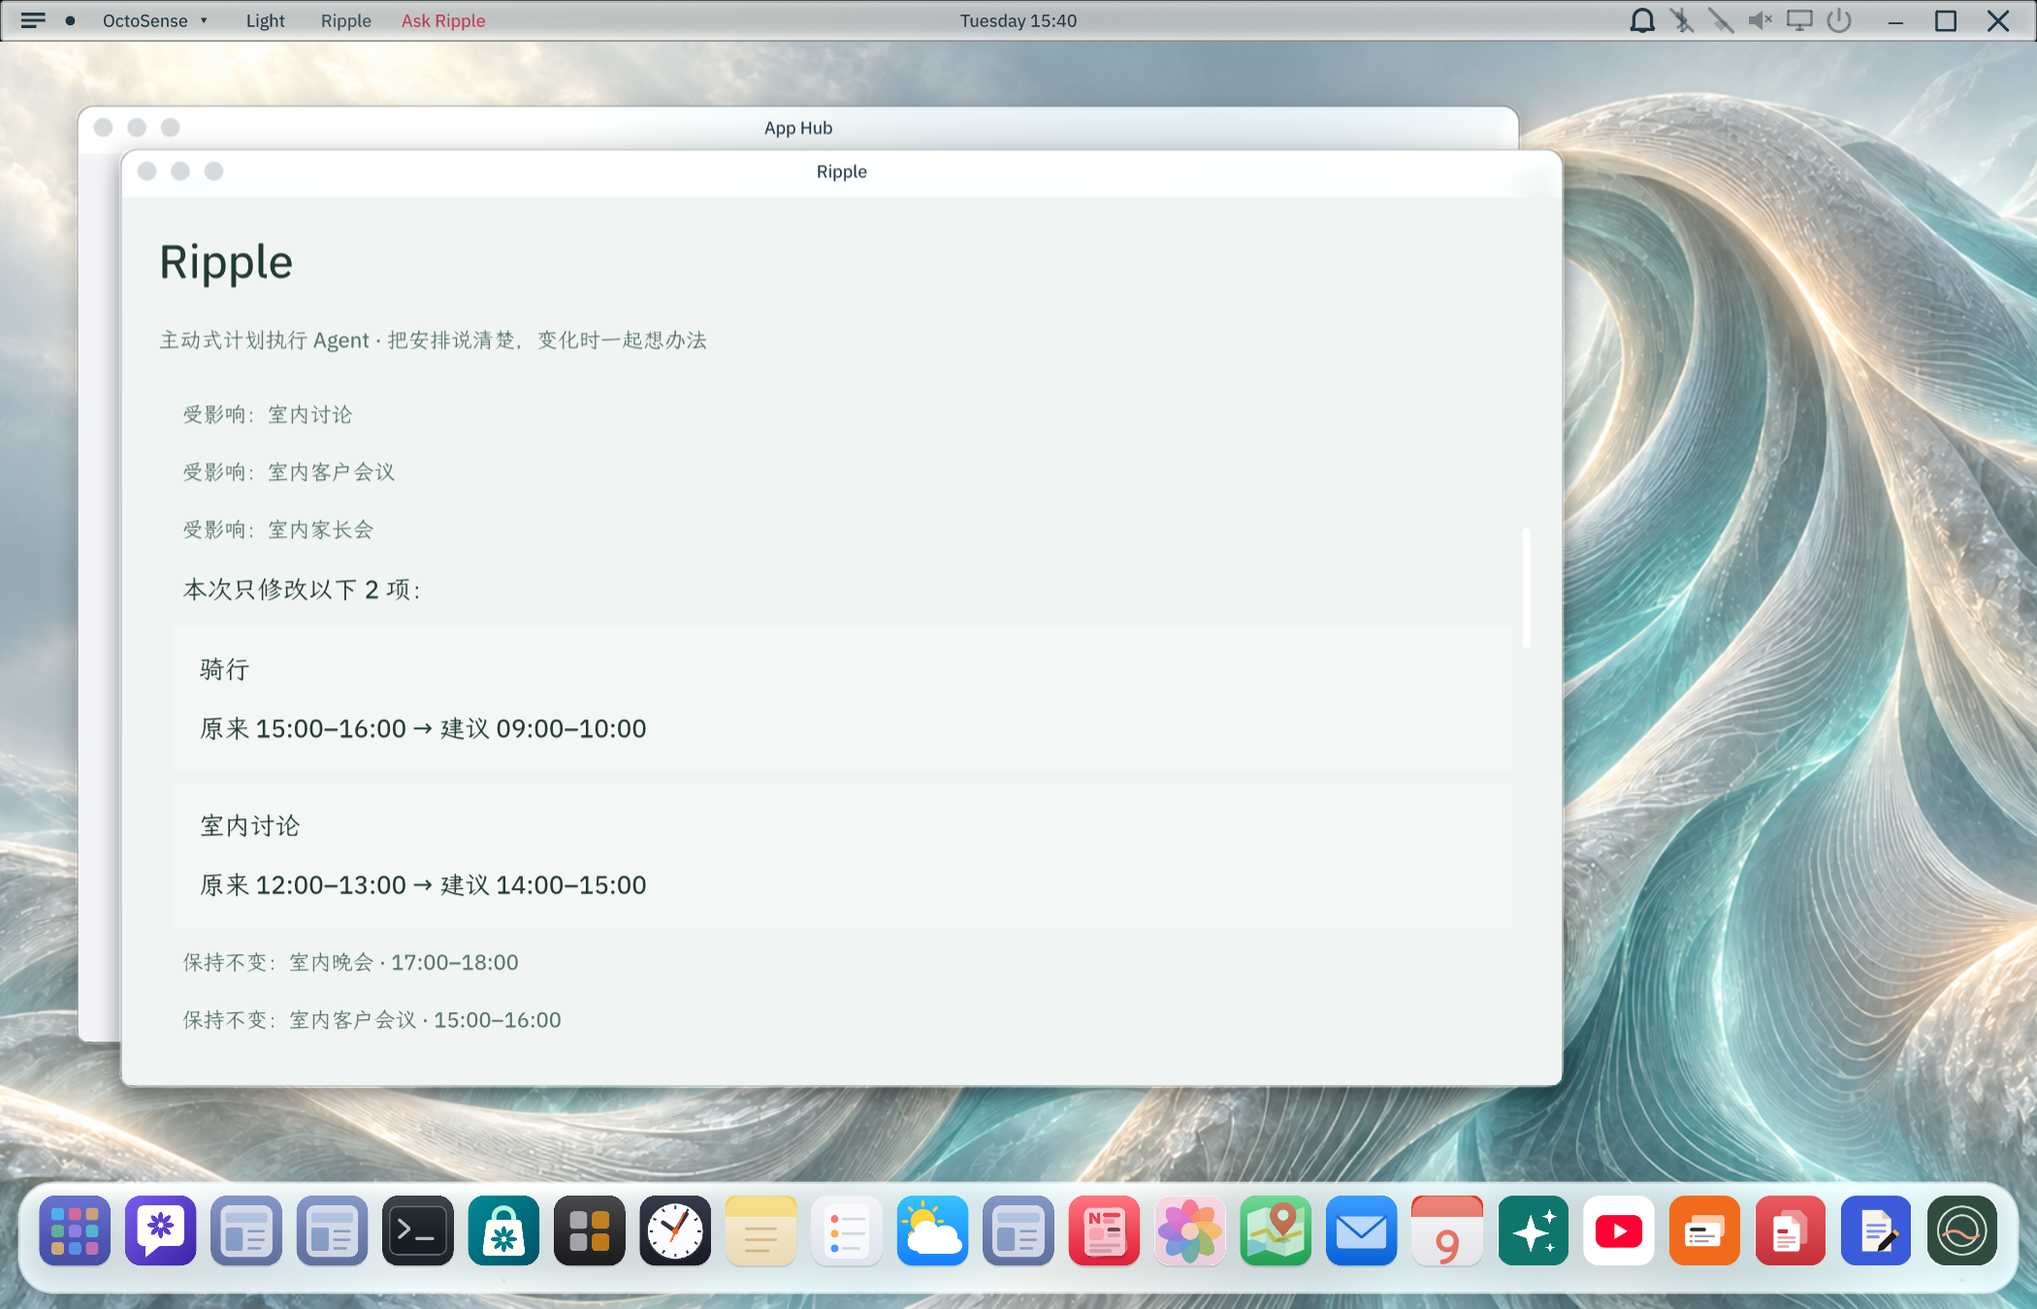
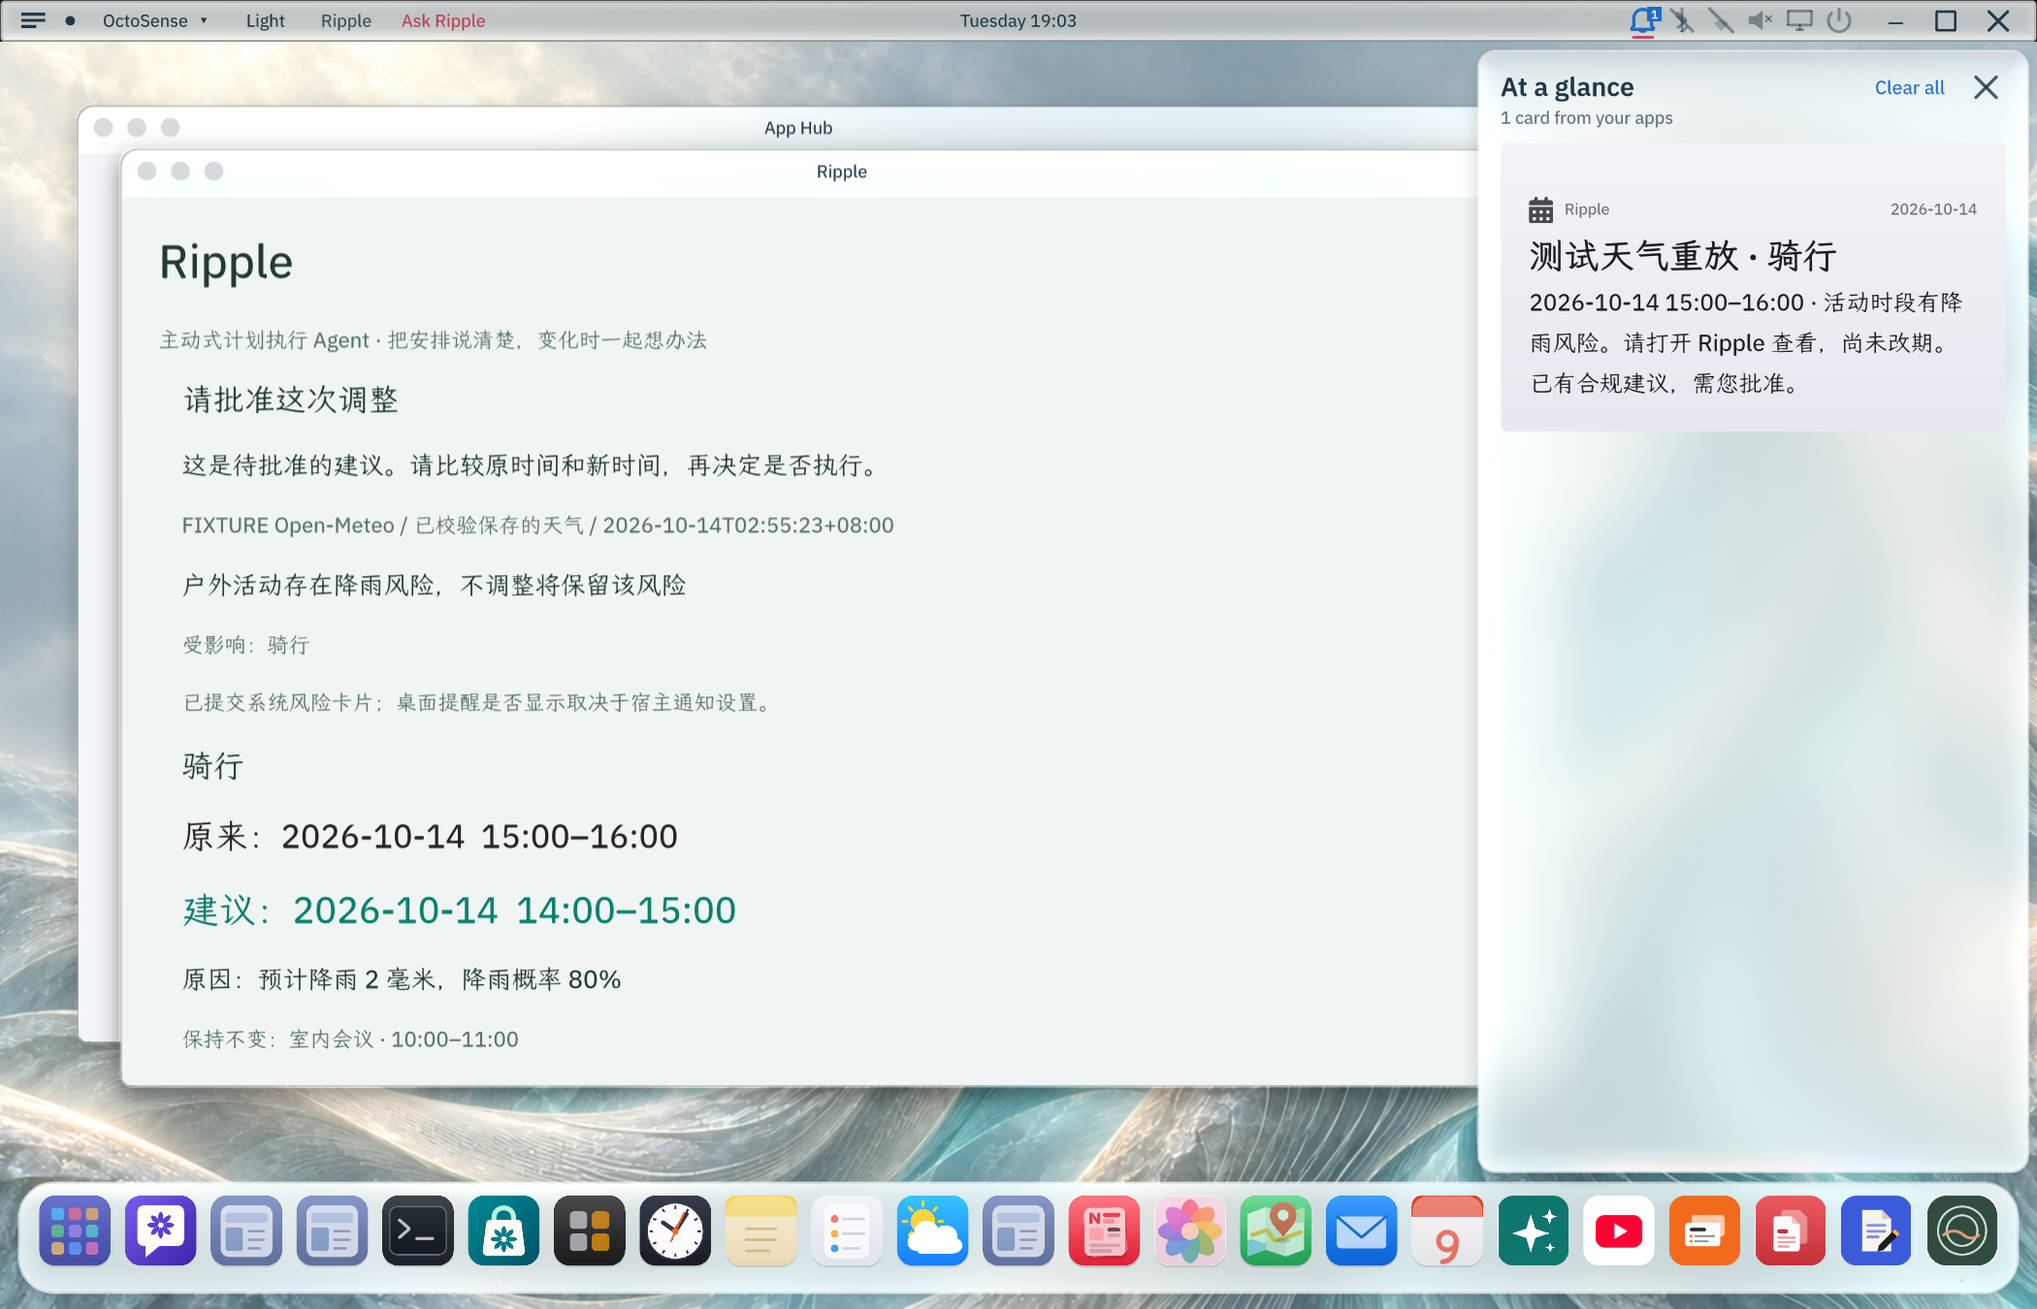
fix: harden real agent responses and weather-bound risk reminders

Changed region(s): [[0.7119, 0.0, 1.0, 0.9022], [0.0929, 0.28, 0.4333, 0.5911], [0.0929, 0.6222, 0.3714, 0.8089]]

diff --git a/phase1/business-harness/src/stage4_tests.rs b/phase1/business-harness/src/stage4_tests.rs
@@ -6,7 +6,7 @@ fn stage4_change_response_and_existing_execution() {
     source.push_str(r#"
       fn s4_check(){ finish_change_check("sdk_replay",input_generation,schedule_fingerprint()) }
       fn s4_facts(){ let e=read_event() let w=read_weather_snapshot(e,time_now()) weather=w.hours fs.write("facts.json",change_facts(e).to_json()) }
-      fn s4_card(){ fs.write("glance-payload.json",{payload:glance_payload()}.to_json()) }
+      fn s4_card(){ fs.write("glance-payload.json",{payload:glance_payload() weather_message:weather_message detail:weather_detail(plan_entries(read_event())[0])}.to_json()) }
       fn s4_report(){ fs.write("state.json",{status:status busy:busy verified:verified change:change_context message:message mode:planning_mode change_message:change_message}.to_json()) }
       fn s4_outage(){ change_agent_failed(task_generation,"EXPLICIT_SDK_PROVIDER_OUTAGE") }
       fn s4_rule_begin(){ preview_candidates() }
@@ -28,12 +28,22 @@ fn stage4_change_response_and_existing_execution() {
     let baseline=read(jail.join("change-response.json"));
     weather["fetched_at"]=json!(now-1);weather["revision"]=json!("timestamp-only");weather["hours"][9]["rain"]=json!(0.2);save("weather.json",&weather);
     invoke(&mut cx,&card,id!(s4_check),&[]);assert_eq!(read(jail.join("change-response.json")),baseline,"semantic weather jitter must remain quiet");
+    let mut related_only=primary.clone();related_only["revision"]=json!(2);related_only["planning"]["plans"]=json!([{"id":"walk","title":"关联散步","start":day+15*3600,"end":day+16*3600,"active":true,"movable":false,"outdoor":true,"priority":3,"availability":null}]);
+    weather["hours"][15]["rain"]=json!(2);save("weather.json",&weather);save("schedule.txt",&related_only);invoke(&mut cx,&card,id!(s4_check),&[]);invoke(&mut cx,&card,id!(s4_card),&[]);let related_card=read(jail.join("glance-payload.json"));assert!(related_card["payload"]["title"].as_str().unwrap().contains("关联散步"));assert!(related_card["payload"]["summary"].as_str().unwrap().contains("15:00"));assert!(related_card["payload"]["summary"].as_str().unwrap().contains("降雨"));assert_eq!(read(jail.join("schedule.txt")),related_only);
+    weather["hours"][15]["rain"]=json!(0);save("weather.json",&weather);save("schedule.txt",&primary);invoke(&mut cx,&card,id!(s4_check),&[]);
     let mut added=primary.clone();added["revision"]=json!(2);added["planning"]["plans"]=json!([
         {"id":"new-meeting","title":"十点固定会议","start":day+10*3600,"end":day+11*3600,"active":true,"movable":false,"outdoor":false,"priority":5,"availability":null},
         {"id":"unrelated","title":"下午会议","start":day+15*3600,"end":day+16*3600,"active":true,"movable":false,"outdoor":false,"priority":3,"availability":null}]);
     save("schedule.txt",&added);invoke(&mut cx,&card,id!(s4_check),&[]);let detected=report(&mut cx);assert_eq!(detected["status"],"RISK");assert_eq!(detected["change"]["affected"].as_array().unwrap().len(),2);assert_eq!(read(jail.join("schedule.txt")),added);
     invoke(&mut cx,&card,id!(s4_card),&[]);let risk_card=read(jail.join("glance-payload.json"));
     assert!(risk_card["payload"].is_object());assert!(risk_card["payload"]["title"].as_str().unwrap().contains("测试天气重放"));assert!(!risk_card["payload"]["summary"].as_str().unwrap().contains("骑行"),"public summary must not expose activity titles");
+    assert!(risk_card["payload"]["expires"].as_f64().unwrap()<=600.0);
+    let mut near_expiry=weather.clone();near_expiry["fetched_at"]=json!(now-550);save("weather.json",&near_expiry);
+    invoke(&mut cx,&card,id!(s4_card),&[]);assert!(read(jail.join("glance-payload.json"))["payload"].is_null(),"minimum Glance TTL must not extend stale forecast claims");
+    near_expiry["fetched_at"]=json!(now-601);save("weather.json",&near_expiry);
+    invoke(&mut cx,&card,id!(expire_visible_risk),&[]);assert_eq!(report(&mut cx)["status"],"STALE");assert_eq!(read(jail.join("schedule.txt")),added,"expiry never authorizes a write");
+    invoke(&mut cx,&card,id!(s4_card),&[]);let expired_card=read(jail.join("glance-payload.json"));assert!(expired_card["weather_message"].as_str().unwrap().contains("过期"));assert!(expired_card["detail"].as_str().unwrap().contains("未知"),"expired UI must not retain the cached rain label");
+    save("weather.json",&weather);invoke(&mut cx,&card,id!(s4_check),&[]);
     let call=|name:&str,args:Value,cx:&mut Cx|->Value{
         let replies:Replies=Default::default();let out=replies.clone();
         script_tools::submit("ripple",name,args,"device","stage4-fixture",Duration::from_secs(60),Box::new(move|r|out.lock().unwrap().push(r))).unwrap();pump(cx,&card);

diff --git a/phase1/business-harness/src/lib.rs b/phase1/business-harness/src/lib.rs
@@ -8,6 +8,11 @@ mod tests {
     use std::{path::{Path, PathBuf}, sync::{Arc, Mutex}, time::Duration};
 
     type Replies = Arc<Mutex<Vec<Result<Value, String>>>>;
+    thread_local! {
+        // The official registry is thread-local and append-only. A test creates
+        // many Cx instances on one thread; register its host vocabulary once.
+        static HOST_TOOLS_READY: std::cell::Cell<bool> = const { std::cell::Cell::new(false) };
+    }
     fn root() -> PathBuf { PathBuf::from(std::env::var("RIPPLE_TEST_ROOT").unwrap()) }
     fn evidence() -> PathBuf { PathBuf::from(std::env::var("RIPPLE_TEST_EVIDENCE").unwrap()) }
     fn write(name: &str, v: &Value) {
@@ -18,7 +23,9 @@ mod tests {
     fn read(p: impl AsRef<Path>) -> Value { serde_json::from_slice(&std::fs::read(p.as_ref()).unwrap_or_else(|e|panic!("read {}: {e}",p.as_ref().display()))).unwrap() }
     fn fixture(label: &str, source: &str, reference: &Path) -> (Cx, WidgetRef, SplashRef, script_tools::Registration, PathBuf) {
         // Public isolate registration, identical app_tools implementation; no gate edits.
-        makepad_widgets::widget_async::register_splash_isolate_mod(script_tools::script_mod);
+        HOST_TOOLS_READY.with(|ready| {
+            if !ready.replace(true) { makepad_widgets::widget_async::register_splash_isolate_mod(script_tools::script_mod); }
+        });
         let mut cx=Cx::new(Box::new(|_,_|{}));
         let ui=cx.with_vm(|vm| {
             makepad_widgets::script_mod(vm);
@@ -31,7 +38,9 @@ mod tests {
         card.set_host_tag(&mut cx,Some("ripple".into()));
         card.set_sandbox_dir(&mut cx,Some(jail.clone()));
         card.set_policy(&mut cx,Some(vec![]),Some(2_000_000));
+        let initialization_started=std::time::Instant::now();
         card.set_text(&mut cx,source);
+        if std::env::var_os("RIPPLE_TRACE_CALLS").is_some() { eprintln!("RIPPLE_INIT label={label} source_bytes={} elapsed_us={}",source.len(),initialization_started.elapsed().as_micros()); }
         widget_tree::set_ui_root(&mut cx,&ui);
         // Mount/draw the real widget tree, as official card_layout_tests do.
         // app_tool legitimately calls ui.call.set_text; keep that UI code intact.
@@ -487,7 +496,8 @@ mod tests {
         std::fs::write(jail.join("weather.json"),w.to_string()).unwrap();invoke(&mut cx,&card,id!(fixture_begin),&["no-candidate"]);
         let nc=call("ripple.context.read",json!({"task_id":"no-candidate"}),&mut cx).unwrap();let mut args=nc["search_bounds"].clone();args["task_id"]=json!("no-candidate");args["read_token"]=nc["read_token"].clone();
         let none=call("ripple.slots.search",args,&mut cx).unwrap();assert_eq!(none["candidates"],json!([]));
-        let ncchoice=json!({"task_id":"no-candidate","read_token":nc["read_token"],"decision":"NO_CANDIDATE","search_id":none["search_id"],"candidate_id":null});invoke(&mut cx,&card,id!(fixture_finish),&[&ncchoice.to_string()]);invoke(&mut cx,&card,id!(fixture_report),&[]);assert_eq!(read(jail.join("report.json"))["status"],"NO_CANDIDATE");assert_eq!(read(jail.join("schedule.txt")),after);
+        let ncchoice=json!({"task_id":"no-candidate","read_token":nc["read_token"],"decision":"NO_CANDIDATE","search_id":none["search_id"],"candidate_id":null});let mut wrong_explanation=ncchoice.clone();wrong_explanation["explanation"]=json!("窗口 15:00–17:00 被会议占用");invoke(&mut cx,&card,id!(fixture_finish),&[&wrong_explanation.to_string()]);invoke(&mut cx,&card,id!(fixture_report),&[]);assert_eq!(read(jail.join("report.json"))["status"],"ANALYZING");assert_eq!(read(jail.join("schedule.txt")),after);
+        let mut corrected=ncchoice.clone();corrected["explanation"]=json!("允许窗口内没有同时满足天气与固定安排的时段。愿意声明另一段同日空闲，还是保留？");invoke(&mut cx,&card,id!(fixture_finish),&[&corrected.to_string()]);invoke(&mut cx,&card,id!(fixture_report),&[]);assert_eq!(read(jail.join("report.json"))["status"],"NO_CANDIDATE");assert_eq!(read(jail.join("schedule.txt")),after);
         for mode in ["count","expiry"] {
             invoke(&mut cx,&card,id!(fixture_replan_limit),&[mode]);invoke(&mut cx,&card,id!(fixture_report),&[]);
             assert_eq!(read(jail.join("report.json"))["status"],"FAILED");assert_eq!(read(jail.join("schedule.txt")),after);

diff --git a/phase1/business-harness/src/stage2_tests.rs b/phase1/business-harness/src/stage2_tests.rs
@@ -36,6 +36,11 @@ fn stage2_interpretation_coordination_and_guards() {
     invoke(&mut cx,&card,id!(s2_begin),&["interpret"]);let input=call("ripple.context.read",json!({"task_id":"s2-task"}),&mut cx);assert_eq!(input["mode"],"interpret");
     let reply=json!({"task_id":"s2-task","read_token":input["read_token"],"decision":"DRAFT","draft":draft});
     invoke(&mut cx,&card,id!(s2_finish),&[&reply.to_string()]);let interpreted=report(&mut cx);assert_eq!(interpreted["status"],"DRAFT_REVIEW");assert_eq!(read(jail.join("schedule.txt")),original);
+    invoke(&mut cx,&card,id!(s2_begin),&["interpret"]);let fenced_ctx=call("ripple.context.read",json!({"task_id":"s2-task"}),&mut cx);let mut fenced_reply=reply.clone();fenced_reply["read_token"]=fenced_ctx["read_token"].clone();
+    invoke(&mut cx,&card,id!(s2_finish),&[&format!("```json\n{}\n```",fenced_reply)]);assert_eq!(report(&mut cx)["status"],"DRAFT_REVIEW","an exact outer JSON fence must not strand the UI");assert_eq!(read(jail.join("schedule.txt")),original);
+    for bad_text in ["{bad","{}","{\"task_id\":\"s2-task\",\"read_token\":\"missing\",\"draft\":{},\"question\":\"x\"}"] {
+        invoke(&mut cx,&card,id!(s2_begin),&["interpret"]);invoke(&mut cx,&card,id!(s2_finish),&[bad_text]);assert_eq!(report(&mut cx)["status"],"FAILED","malformed model output must terminate without a field trap");assert_eq!(read(jail.join("schedule.txt")),original);
+    }
     invoke(&mut cx,&card,id!(s2_begin),&["interpret"]);let city_ctx=call("ripple.context.read",json!({"task_id":"s2-task"}),&mut cx);let mut other_city=reply.clone();other_city["read_token"]=city_ctx["read_token"].clone();other_city["draft"]["plans"][0]["city_query"]=json!("上海");invoke(&mut cx,&card,id!(s2_finish),&[&other_city.to_string()]);assert_eq!(report(&mut cx)["status"],"FAILED");assert_eq!(read(jail.join("schedule.txt")),original);
     invoke(&mut cx,&card,id!(s2_begin),&["interpret"]);let valid_ctx=call("ripple.context.read",json!({"task_id":"s2-task"}),&mut cx);let mut valid_reply=reply.clone();valid_reply["read_token"]=valid_ctx["read_token"].clone();invoke(&mut cx,&card,id!(s2_finish),&[&valid_reply.to_string()]);assert_eq!(report(&mut cx)["status"],"DRAFT_REVIEW");
     invoke(&mut cx,&card,id!(apply_interpretation),&[]);assert_eq!(read(jail.join("schedule.txt")),original,"Apply fills a draft, never saves");let meta=report(&mut cx)["planning"].clone();

diff --git a/stage1/bundle/PRIVACY.md b/stage1/bundle/PRIVACY.md
@@ -1,4 +1,4 @@
-# Ripple 0.6.3-rc.1 local privacy notice
+# Ripple 0.6.4-rc.2 local privacy notice
 
 This unpublished local build manages one primary activity and up to four related same-city, same-day planning facts confirmed by the user. It has no external calendar integration or publisher backend.
 
@@ -23,4 +23,4 @@ Stage 3 extends the existing execution receipt with the approved original/final 
 Stage 4 checks saved plans and weather on application startup, explicit weather refresh, and saving a plan. Meaningful risks may invoke the same configured AI provider and its two read-only tools. A small change-response.json in the existing app storage remembers the latest semantic facts and dismissal to avoid repeat suggestions. Closing the application stops checks. Plans still change only after explicit approval; partial or unknown writes stop further analysis.
 
 ## 系统风险提醒
-Ripple 在已支持的前台检查时机通过官方 Glance 发布一张本应用风险卡片，并请求宿主桌面提醒。公开卡片仅显示日期和必要风险摘要，不包含活动名称、地点或模型协议。相同事实只尝试一次弹窗；拒绝、风险解除、方案失效或结果待核对时撤回卡片。宿主通知设置决定是否显示，卡片本身不能批准或执行日程。通知尝试指纹保存在已有 change-response.json 中，不建立其他计划数据库。
+Ripple 在已支持的前台检查时机通过官方 Glance 发布一张本应用风险卡片，并请求宿主桌面提醒。桌面卡片显示活动简称、日期、时段和必要风险摘要；旁人可能看到，请避免在活动名称中填写敏感内容。卡片不显示具体地点、模型协议或完整日程。相同事实只尝试一次弹窗；拒绝、风险解除、天气过期、方案失效或结果待核对时撤回卡片。宿主通知设置决定是否显示，卡片本身不能批准或执行日程。通知尝试指纹保存在已有 change-response.json 中，不建立其他计划数据库。

diff --git a/stage1/bundle/AGENT.md b/stage1/bundle/AGENT.md
@@ -11,3 +11,5 @@ Interpretation mode: read request_text, today, current_inputs and saved events f
 Foreground change response: context.change identifies the triggering user action, affected plans, observed risk reasons and weather source. Use these verified facts to assess the changed goals and consequences; read all fixed commitments before searching. Reuse the same bounded slots tool and return the same strictly validated selection. The app compares semantic risk before invoking you. Never describe this as background monitoring, never treat FIXTURE as LIVE, and never claim approval or execution.
 
 One bounded correction: when the actual validator returns a specific rejection, correct only that choice once, using actual tool candidates. A second failure stops safely; you cannot waive constraints. Glance is published by app UI from authoritative risk state; you cannot publish, authorize, or execute through a notification.
+
+No-solution explanations are qualitative: describe the conflict and ask whether to declare another same-day window or keep the plan. Do not include numerical facts (dates, clock times, duration, grid size, rain values); the program displays those verified facts. local_planning_facts and constraints.time_authority are the authoritative human-readable UTC+08:00 facts. Never calculate a new timezone from epochs. An actual explanation-contract rejection may receive the same single bounded correction as an invalid candidate; the total limit is one, not one per error type.

diff --git a/AGENTS.md b/AGENTS.md
@@ -2,7 +2,7 @@
 
 1. 唯一正式开发目录是 `F:\桌面\01 项目开发\黑客松\Ripple`。正式功能、修复、提交、构建和验收在本仓库进行；默认开发分支为 `main`。
 2. 操作前核对真实仓库根目录、分支、HEAD、索引和磁盘源码。阶段结束时再次核对，不能仅凭某个分支引用宣称工作文件已更新。
-3. 当前开发应用入口为 `stage1/bundle/main.splash`，版本 `0.6.3-rc.1`。根目录 `bundle/`、`v0.1.0` 和 `submission/ripple-v0.1.0` 是受保护的历史参赛版本；开发版合法接收状态单独判断。
+3. 当前开发应用入口为 `stage1/bundle/main.splash`，版本 `0.6.4-rc.4`。根目录 `bundle/`、`v0.1.0` 和 `submission/ripple-v0.1.0` 是受保护的历史参赛版本；开发版合法接收状态单独判断。
 4. Workspace 中的 Ripple 目录是保留的历史副本与证据，不是正式源码入口。未经用户批准，不再建立长期开发副本或替代工作目录。
 5. 常规保护使用明确的 Git 分支、提交和增量备份。临时测试必须有隔离目录、明确生命周期，且不能独占最新源码；不能复制旧 Kernel core、会话数据库或活动作为新测试环境。
 6. 保留历史配置、数据和证据。删除副本、修改真实凭据或历史 ACL、推送、发布及替换冻结包均需用户单独授权。不得 reset --hard、clean、强制覆盖或清理恢复引用。

diff --git a/DEVELOPMENT.md b/DEVELOPMENT.md
@@ -2,7 +2,7 @@
 
 唯一正式仓库：`F:\桌面\01 项目开发\黑客松\Ripple`，开发分支 `main`。2026-10-13 已从受保护的冻结分支切换到此前合并的开发提交；没有复制另一个仓库覆盖原 `.git`。
 
-开发应用是 `stage1/bundle/`，入口 `main.splash`，版本 `0.6.3-rc.1`。根 `bundle/` 仍为 v0.1.0 历史交付。React/TypeScript 的 `src/` 是保留的早期原型。不要将 React 构建成功当成原生 Agent 完整验证。
+开发应用是 `stage1/bundle/`，入口 `main.splash`，版本 `0.6.4-rc.4`。根 `bundle/` 仍为 v0.1.0 历史交付。React/TypeScript 的 `src/` 是保留的早期原型。不要将 React 构建成功当成原生 Agent 完整验证。
 
 本次源码统一没有新增业务逻辑；阶段三的时间编辑同步修复已经存在于合并提交。参赛版本接收仍为 `COMPETITION_VERSION_UNVERIFIED`，本地开发提交不等于比赛已接收。
 
